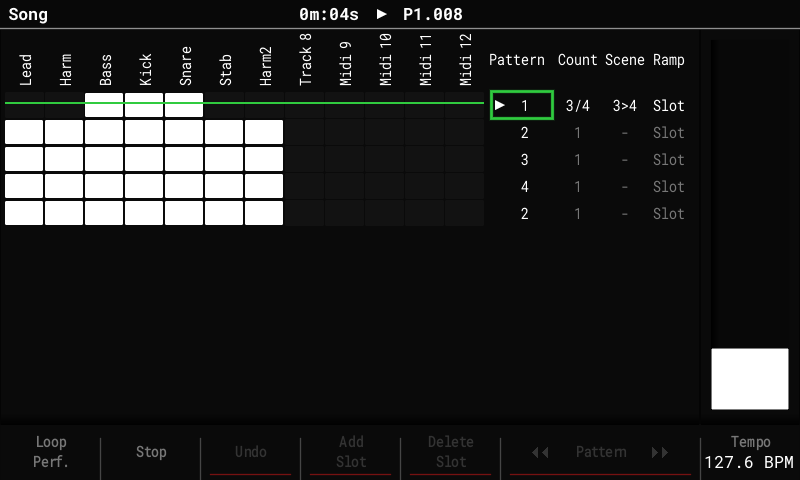
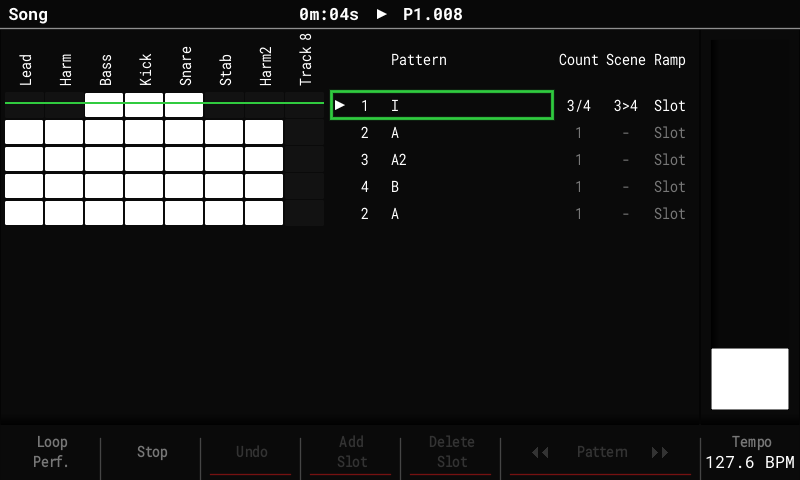
Deployed 90c70d4 to dev with MkDocs 1.6.1 and mike 2.2.0

diff --git a/dev/guide/song-mode/index.html b/dev/guide/song-mode/index.html
@@ -560,6 +560,45 @@
 </li>
       
         <li class="md-nav__item">
+  <a href="#progressions" class="md-nav__link">
+    <span class="md-ellipsis">
+      
+        Progressions
+      
+    </span>
+  </a>
+  
+    <nav class="md-nav" aria-label="Progressions">
+      <ul class="md-nav__list">
+        
+          <li class="md-nav__item">
+  <a href="#voicing" class="md-nav__link">
+    <span class="md-ellipsis">
+      
+        Voicing
+      
+    </span>
+  </a>
+  
+</li>
+        
+          <li class="md-nav__item">
+  <a href="#the-progression-files" class="md-nav__link">
+    <span class="md-ellipsis">
+      
+        The progression files
+      
+    </span>
+  </a>
+  
+</li>
+        
+      </ul>
+    </nav>
+  
+</li>
+      
+        <li class="md-nav__item">
   <a href="#saved-with-the-project" class="md-nav__link">
     <span class="md-ellipsis">
       
@@ -1091,6 +1130,45 @@
 </li>
       
         <li class="md-nav__item">
+  <a href="#progressions" class="md-nav__link">
+    <span class="md-ellipsis">
+      
+        Progressions
+      
+    </span>
+  </a>
+  
+    <nav class="md-nav" aria-label="Progressions">
+      <ul class="md-nav__list">
+        
+          <li class="md-nav__item">
+  <a href="#voicing" class="md-nav__link">
+    <span class="md-ellipsis">
+      
+        Voicing
+      
+    </span>
+  </a>
+  
+</li>
+        
+          <li class="md-nav__item">
+  <a href="#the-progression-files" class="md-nav__link">
+    <span class="md-ellipsis">
+      
+        The progression files
+      
+    </span>
+  </a>
+  
+</li>
+        
+      </ul>
+    </nav>
+  
+</li>
+      
+        <li class="md-nav__item">
   <a href="#saved-with-the-project" class="md-nav__link">
     <span class="md-ellipsis">
       
@@ -1135,8 +1213,12 @@
 <h1 id="song-mode">Song mode<a class="headerlink" href="#song-mode" title="Permanent link">&para;</a></h1>
 <p>The Song screen arranges patterns into a list of slots. The fork adds <strong>repeat counts</strong>,
 a <strong>Performance scene per slot</strong>, and <strong>fader ramps</strong> between two scenes, so a song can be
-arranged with performance changes without copying patterns.</p>
+arranged with performance changes without copying patterns, and <strong>progressions</strong>: chord
+patterns added in the order of a chord progression.</p>
 <p><img alt="The Song list with Count, Scene and Ramp columns" src="../../images/song.png" /></p>
+<p>The track grid shows 8 tracks at a time: tracks 1-8 (the sample tracks), and tracks 9-16
+(the MIDI tracks) once the grid cursor moves past track 8. The space this frees shows each
+pattern's name next to its number, as on stock.</p>
 <p>The Song list has four columns: <strong>Pattern</strong>, <strong>Count</strong>, <strong>Scene</strong> and <strong>Ramp</strong>. In edit
 mode (<strong>Rec</strong>), <strong>Right</strong> moves from the list into the columns, <strong>Left</strong> back. <strong>Delete</strong>
 resets the selected value.</p>
@@ -1197,6 +1279,124 @@ resets the selected value.</p>
 <li><strong>Song + Right</strong> jumps from the track grid straight to the Pattern list; <strong>Song + Left</strong>
   goes back into the grid (edit mode). <strong>Shift + Left / Right</strong> still sizes the grid
   selection.</li>
+</ul>
+<h2 id="progressions">Progressions<a class="headerlink" href="#progressions" title="Permanent link">&para;</a></h2>
+<p>A common way to write chords on the Tracker is one chord per pattern, each pattern named
+after its chord, with Song mode putting them in order. <strong>Insert</strong> (in edit mode) does that
+for you: pick a progression and it adds the slots, with a named pattern for each chord.</p>
+<p>For example, in A minor (Config &gt; Project Settings: Root note A, Scale Minor), press
+<strong>Rec</strong>, then <strong>Insert</strong>, pick <code>Am  F  C  G   i VI III VII</code> and press <strong>F8 Insert</strong>. Four
+slots appear after the cursor, playing four patterns named <code>Am i</code>, <code>F VI</code>, <code>C III</code> and
+<code>G VII</code>, each with its chord on step 1 of tracks 1-3, using the current instrument. The
+cursor ends on the last of them, so a second Insert (a chorus, say) follows on. Press
+<strong>F2 Play Song</strong> to hear it, then open each pattern to give the chord a rhythm, add drums,
+or change the voicing.</p>
+<p><img alt="The Progression list on a new project" src="../../images/song-progressions.png" /></p>
+<p><img alt="The four slots it adds, each pattern named after its chord" src="../../images/song-progression-added.png" /></p>
+<ul>
+<li>The Pattern list shows each pattern's name, so the song reads as its chords.</li>
+<li>The list shows each progression's chords in the project key, with its numbers (or its
+  title) on the right, under a heading per file. <strong>Up / Down</strong> or the encoder pick one,
+  <strong>F8</strong> or <strong>Insert</strong> adds it, <strong>F7</strong> or <strong>Left</strong> closes the list.</li>
+<li>A chord that already has a pattern named after it reuses that pattern (only the name's
+  first word is checked, so a pattern you called <code>F</code> counts as F). A chord that comes twice
+  in a progression gets one pattern.</li>
+<li>New chords go into empty, unnamed patterns that aren't in the song yet. Nothing you made
+  is overwritten. If the cursor slot holds an empty, unnamed pattern (a new project's
+  slot 1), the progression starts there instead of after it.</li>
+<li>New patterns take the track lengths of the cursor slot's pattern. Sevenths use tracks 1-4.</li>
+<li>The numbers are worked out from the key when you add the progression. Changing the key
+  later leaves the pattern names as they are.</li>
+</ul>
+<h3 id="voicing">Voicing<a class="headerlink" href="#voicing" title="Permanent link">&para;</a></h3>
+<p>The same chord can be stacked in different shapes: Am is A, C and E, close together or
+spread out. <strong>F6 Voicing</strong> in the list picks the shape before you press <strong>F8</strong>. Each press
+shows the first two chords' notes, for example <code>Smooth: Am A4 C5 E5 &gt; F A4 C5 F5</code>.</p>
+<table>
+<thead>
+<tr>
+<th>Voicing</th>
+<th>What it writes</th>
+<th>Good for</th>
+</tr>
+</thead>
+<tbody>
+<tr>
+<td><strong>Smooth</strong></td>
+<td>each chord in the shape closest to the one before, so the notes move little (A and C stay from Am to F)</td>
+<td>pads and keys; the default</td>
+</tr>
+<tr>
+<td><strong>Block</strong></td>
+<td>every chord in root position, root in the C4 octave</td>
+<td>stabs, a plain chord sound</td>
+</tr>
+<tr>
+<td><strong>Wide</strong></td>
+<td>the root an octave lower, then the 5th, the 3rd an octave up</td>
+<td>big pads, strings</td>
+</tr>
+<tr>
+<td><strong>Bass</strong></td>
+<td>the root an octave lower on its own track, the chord above it (Smooth)</td>
+<td>giving the bass its own instrument afterwards; uses one more track</td>
+</tr>
+</tbody>
+</table>
+<p><img alt="Voicing on F6, with the first chords' notes" src="../../images/song-progression-voicing.png" /></p>
+<ul>
+<li>A voicing other than Smooth adds its name to each pattern's name (<code>Am i Wide</code>), and
+  a chord is only reused from a pattern with the same voicing. So you can insert a verse
+  Smooth and a chorus Wide, and the chorus gets its own patterns:</li>
+</ul>
+<p><img alt="The same progression Smooth, then Wide" src="../../images/song-progression-wide.png" /></p>
+<ul>
+<li>The choice stays until the Tracker is switched off.</li>
+<li>A reused pattern keeps its notes: a chord that comes twice is one pattern, voiced the
+  first time. To change a single chord's shape, open its pattern and move the notes.</li>
+</ul>
+<h3 id="the-progression-files">The progression files<a class="headerlink" href="#the-progression-files" title="Permanent link">&para;</a></h3>
+<p>The list comes from text files in <code>Progressions/</code> on the card, one heading per file
+(<code>Jazz.txt</code> shows as Jazz). The first time you open the list with no files there, the
+Tracker writes its own: DnB, Hip-hop, Jazz and Pop. Edit them, add your own, or copy
+them to share; a file of yours is never overwritten. To get the built-in files back,
+delete or rename them.</p>
+<p>Each line is one progression, written as numbers so the same file works in any key:</p>
+<div class="highlight"><pre><span></span><code># Jazz.txt
+ii7 V7 Imaj7 | Two-five-one
+iim7b5 V7 i
+i VI III VII | Jungle pads
+</code></pre></div>
+<ul>
+<li><strong>I</strong> to <strong>VII</strong> are the chords on the 1st to 7th note of the key. Upper case is a major
+  chord, lower case a minor one.</li>
+<li>After the number: <code>7</code> (a 7th: dominant on upper case, minor on lower), <code>maj7</code>, <code>m7</code>,
+  <code>dim</code>, <code>dim7</code>, <code>m7b5</code>, <code>aug</code>, <code>sus2</code>, <code>sus4</code>.</li>
+<li><code>b</code> or <code>#</code> in front lowers or raises the chord's root a semitone (<code>bVII</code> in C is Bb).</li>
+<li>Chords are built as written, even when that takes a note from outside the key: <code>V</code> in
+  a minor key is a major chord (E in A minor), as it usually is in minor.</li>
+<li><strong>Major or minor:</strong> start a line with <code>major:</code> or <code>minor:</code> to say which key it is in
+  (<code>minor: iv V</code>). Without it, the Tracker picks the key whose own chords the line uses
+  most: <code>iv V</code> and <code>iv VII III VI</code> are minor (Dm E and Dm G C F in A minor), <code>I V vi IV</code>
+  is major. In a minor key the numbers count on the natural minor scale (<code>VI</code> in A minor
+  is F), and <code>viidim</code> / <code>viidim7</code> sit on the raised 7th, as in harmonic minor (G#dim in
+  A minor).</li>
+<li><strong>In the project key:</strong> a scale with a minor 3rd and no major 3rd counts as minor (Minor, Dorian,
+  Phrygian, Locrian, Harm Min, ...), any other as major (Major, Lydian, Mixolydian,
+  Chromatic, ...). A progression of the same kind plays on the project's root note; one
+  of the other kind plays in the relative key. In A minor, <code>I V vi IV</code> gives C G Am F.</li>
+<li><strong>Modes</strong> play progressions as their parallel major or minor key. D Dorian counts as
+  D minor: <code>i IV</code> gives Dm G and <code>I V vi IV</code> gives F C Dm Bb. Chords that use the note
+  where the mode differs from plain minor or major leave the mode's scale (the Bb above;
+  Dorian has B).</li>
+<li><strong>Names:</strong> with <strong>Note names</strong> on Auto (Config &gt; General) chords are spelled from the
+  key: each number has its own letter, so <code>bVII</code> in C is Bb and <code>vii</code> dim in F# major is
+  E#dim, not Fdim. With Sharps or Flats, every chord name follows that setting (<code>bVII</code> in C
+  shows as A# with Sharps); the notes always sound the same.</li>
+<li>The numbers in a pattern's name are the progression's, as written: in A minor,
+  <code>I V vi IV</code> names its first pattern <code>C I</code>.</li>
+<li>Text after <code>|</code> is the title shown in the list. Lines starting with <code>#</code> are comments.
+  Lines that can't be read are skipped; the list says how many.</li>
 </ul>
 <h2 id="saved-with-the-project">Saved with the project<a class="headerlink" href="#saved-with-the-project" title="Permanent link">&para;</a></h2>
 <p>Counts, scenes and ramps are stored in <code>song.bin</code> next to <code>project.mt</code>. Stock firmware

diff --git a/dev/dev/testing/index.html b/dev/dev/testing/index.html
@@ -866,6 +866,17 @@
 </li>
       
         <li class="md-nav__item">
+  <a href="#music-theory-cases" class="md-nav__link">
+    <span class="md-ellipsis">
+      
+        Music theory cases
+      
+    </span>
+  </a>
+  
+</li>
+      
+        <li class="md-nav__item">
   <a href="#remote-scripts" class="md-nav__link">
     <span class="md-ellipsis">
       
@@ -1047,6 +1058,17 @@
 </li>
       
         <li class="md-nav__item">
+  <a href="#music-theory-cases" class="md-nav__link">
+    <span class="md-ellipsis">
+      
+        Music theory cases
+      
+    </span>
+  </a>
+  
+</li>
+      
+        <li class="md-nav__item">
   <a href="#remote-scripts" class="md-nav__link">
     <span class="md-ellipsis">
       
@@ -1151,6 +1173,17 @@ the codec and Line in, SD timing). Batch device tests so one flash covers severa
 </tr>
 </tbody>
 </table>
+<h2 id="music-theory-cases">Music theory cases<a class="headerlink" href="#music-theory-cases" title="Permanent link">&para;</a></h2>
+<p>Chord names and notes the tests expect (progressions, chord hints) are rows in
+<code>tests/theory_cases.inc</code>, so they aren't taken from our own code: the host tests read the
+rows, and <code>tools/theory_check/check.mjs</code> checks the same rows against the
+<a href="https://github.com/tonaljs/tonal">Tonal</a> library (letter spelling, chord notes, minor
+keys with harmonic minor's leading tone). After adding or changing a row:</p>
+<div class="highlight"><pre><span></span><code><span class="nb">cd</span><span class="w"> </span>tools/theory_check<span class="w"> </span><span class="o">&amp;&amp;</span><span class="w"> </span>npm<span class="w"> </span>ci<span class="w"> </span><span class="o">&amp;&amp;</span><span class="w"> </span>node<span class="w"> </span>check.mjs
+</code></pre></div>
+<p>It needs Node and the network for <code>npm ci</code>, so it isn't part of <code>make host-test</code>. Tonal
+only checks the theory: how a progression's key is picked and where it plays in a project
+scale are our own rules, tested in <code>tests/progression_test.cpp</code>.</p>
 <h2 id="remote-scripts">Remote scripts<a class="headerlink" href="#remote-scripts" title="Permanent link">&para;</a></h2>
 <p>Scripts in <code>tools/remote_scripts/</code> drive the app through
 <a href="../../guide/remote-control/#drive-mode-scripts"><code>tracker_remote.py</code></a> and are written to run

diff --git a/dev/dev/workflow/index.html b/dev/dev/workflow/index.html
@@ -1165,6 +1165,10 @@ side, and only upstream's other changes need applying on top
   scene banks (<code>formats/perf_bank.h</code>). Both use <code>key = value</code> lines, <code>#</code> comments and
   ignore unknown keys, so later versions can add keys. The shipped MIDI presets are in
   <code>midi_presets/</code>; host tests parse each one.</li>
+<li><code>Progressions/&lt;Group&gt;.txt</code> (Song mode progressions, <code>ui/progression.h</code>) is one
+  progression per line in scale numbers, not <code>key = value</code>. The built-in files are
+  compiled in (<code>prog::defaultText</code>) and written only when the folder has no <code>.txt</code> file,
+  never over an existing one.</li>
 </ul>
 <h2 id="code-conventions">Code conventions<a class="headerlink" href="#code-conventions" title="Permanent link">&para;</a></h2>
 <ul>
